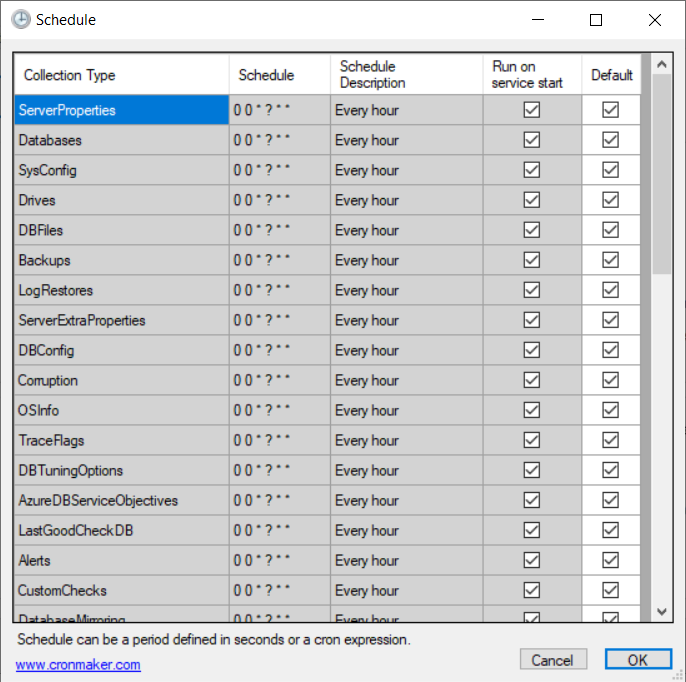
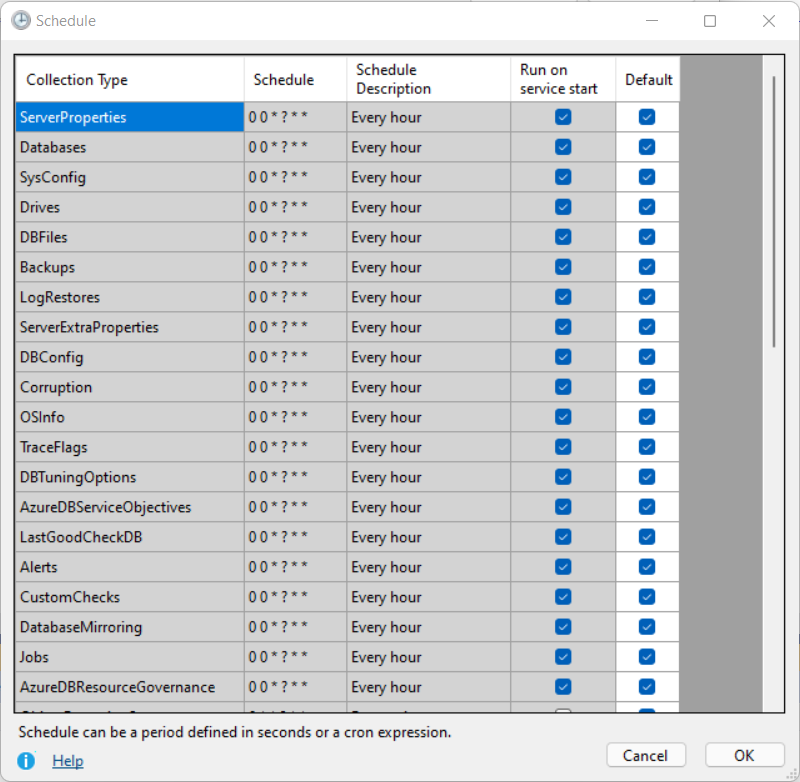
Replace broken link to cronmaker
Replace broken external link with internal docs link
Updates to repository documentation. #173

diff --git a/DBADashServiceConfig/ScheduleConfig.Designer.cs b/DBADashServiceConfig/ScheduleConfig.Designer.cs
@@ -98,14 +98,16 @@ namespace DBADashServiceConfig
             // lnkCron
             // 
             this.lnkCron.Anchor = ((System.Windows.Forms.AnchorStyles)((System.Windows.Forms.AnchorStyles.Bottom | System.Windows.Forms.AnchorStyles.Left)));
-            this.lnkCron.AutoSize = true;
+            this.lnkCron.Image = global::DBADashServiceConfig.Properties.Resources.Information_blue_6227_16x16_cyan;
+            this.lnkCron.ImageAlign = System.Drawing.ContentAlignment.MiddleLeft;
             this.lnkCron.LinkColor = System.Drawing.Color.FromArgb(((int)(((byte)(0)))), ((int)(((byte)(79)))), ((int)(((byte)(131)))));
             this.lnkCron.Location = new System.Drawing.Point(12, 759);
             this.lnkCron.Name = "lnkCron";
-            this.lnkCron.Size = new System.Drawing.Size(147, 20);
+            this.lnkCron.Size = new System.Drawing.Size(68, 23);
             this.lnkCron.TabIndex = 5;
             this.lnkCron.TabStop = true;
-            this.lnkCron.Text = "www.cronmaker.com";
+            this.lnkCron.Text = "Help";
+            this.lnkCron.TextAlign = System.Drawing.ContentAlignment.TopRight;
             this.lnkCron.LinkClicked += new System.Windows.Forms.LinkLabelLinkClickedEventHandler(this.lnkCron_LinkClicked);
             // 
             // ScheduleConfig

diff --git a/DBADashServiceConfig/ScheduleConfig.cs b/DBADashServiceConfig/ScheduleConfig.cs
@@ -174,7 +174,7 @@ namespace DBADashServiceConfig
 
         private void lnkCron_LinkClicked(object sender, LinkLabelLinkClickedEventArgs e)
         {
-            var psi = new ProcessStartInfo("http://www.cronmaker.com/") { UseShellExecute = true };
+            var psi = new ProcessStartInfo("https://github.com/trimble-oss/dba-dash/blob/main/Docs/Collection.md#cron-expressions") { UseShellExecute = true };
             Process.Start(psi);
         }
     }

diff --git a/Docs/Collection.md b/Docs/Collection.md
@@ -156,8 +156,8 @@ Cron expressions might seem cryptic but they provide a lot of flexibility for sc
 Tip: DBA Dash has a "Schedule Description" column that you can use to validate your cron expression.
 ### Cron Generators
 
-[freeformatter.com](https://www.freeformatter.com/cron-expression-generator-quartz.html#crongenerator)
-[crontab.cronhub.io](https://crontab.cronhub.io/)
+* [freeformatter.com](https://www.freeformatter.com/cron-expression-generator-quartz.html#crongenerator)
+* [crontab.cronhub.io](https://crontab.cronhub.io/)
 
 
 
